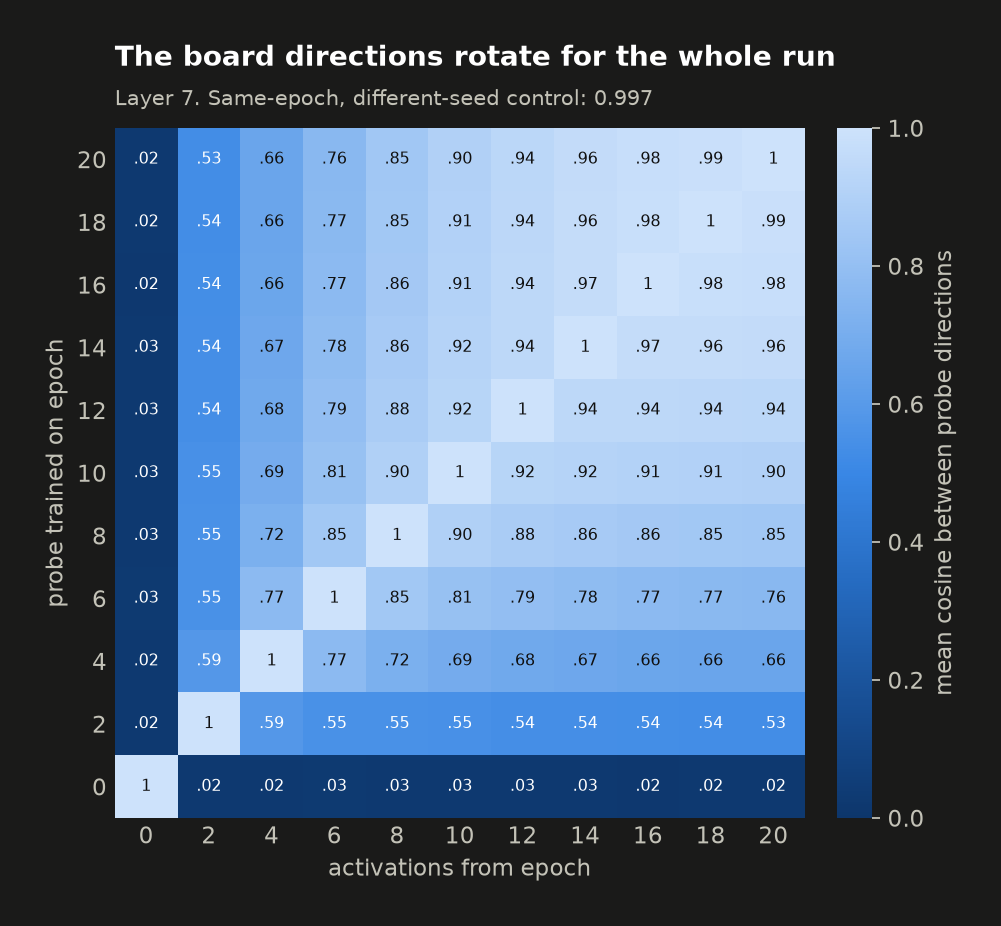
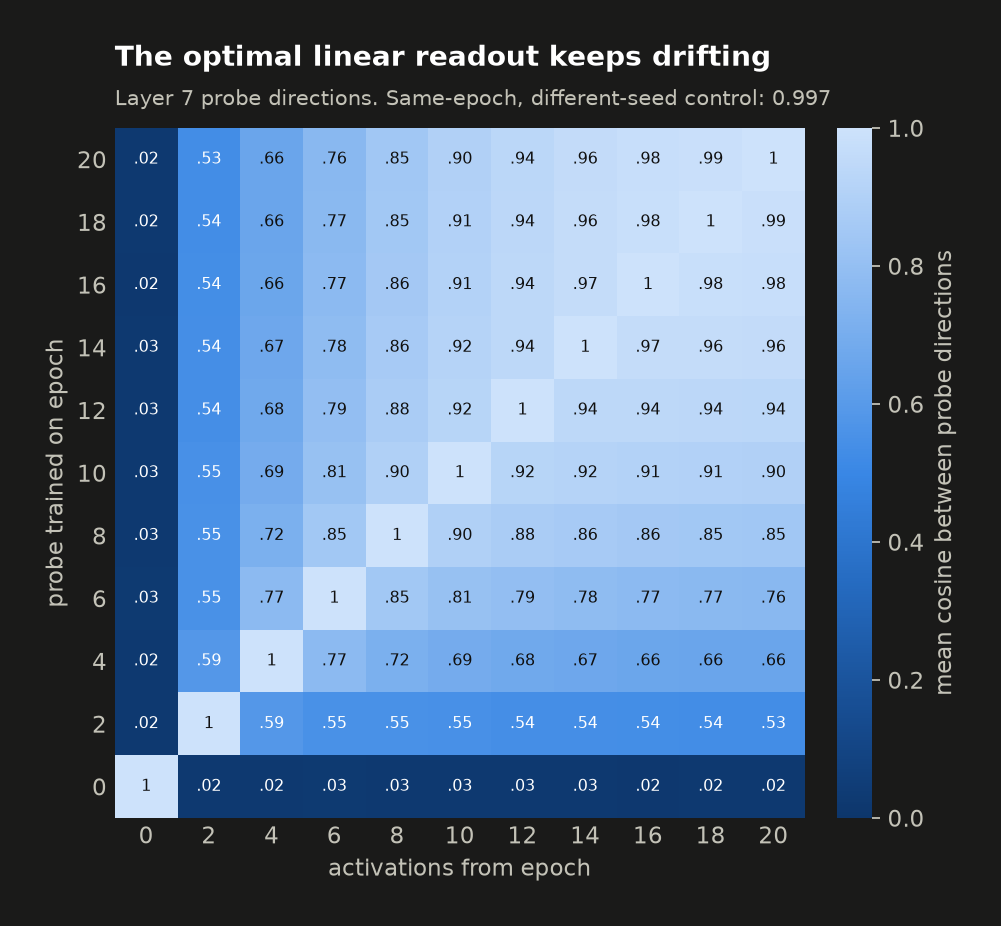
REPORT.md: retract the rotation claim; audit all remaining numbers
Section 8 claimed the board encoding rotates. It does not establish that. A
discriminative probe solves w ~ Sigma^-1 dmu, so its direction moves when the
activation covariance moves -- and mean |h| grows 12->131 (L4) and 16->226 (L7)
over exactly these epochs. The seed control does not separate the two, since
both probes see identical activations. Reworded to the claim the data supports
(the optimal linear readout drifts), with the generative dmu test that would
settle it written up as open thread #2. The epoch-0 row is dropped from the
argument: at init the probe fits noise, so its direction is arbitrary and its
~0.02 cosine is uninformative.

Audit of the other claims against source files.

Fixed:
- bilinear absolute @L7 is 16.97%, not 16.8% (that was the L5 value); the
  gap is 8.4x, not 8.3x
- sections 4 and 6 quoted GELU mine/yours from two different runs (1.12%
  full_h200 vs 0.99% full) without saying so; now labelled, with the spread
  reported as a run-to-run noise estimate
- L8 is a slight rise (1.17%), not flat

Verified sound:
- all legal-move errors, the 17.6% linear / 1.41% nonlinear replication, the
  2.011-nat entropy floor, 1.12% / 17.68% / 15.8x, the intervention numbers
  and the 51%, the head counts and peaks
- the dev-study epoch-20 checkpoint is the main model
- floors and intervention score the SAME 200 cases, so the ceiling comparison
  is not confounded by case selection

Added:
[…]

Changed region(s): [[0.1858, 0.0302, 0.8362, 0.121]]

diff --git a/src/report_figs.py b/src/report_figs.py
@@ -213,65 +213,9 @@ def fig_transfer(R, out, tag):
     cb = fig.colorbar(im, ax=ax, fraction=0.045, pad=0.04)
     cb.set_label("mean cosine between probe directions", color=T["text2"])
     cb.outline.set_visible(False)
-    title(ax, "The board directions rotate for the whole run",
-          f"Layer 7. Same-epoch, different-seed control: {ctl:.3f}")
+    title(ax, "The optimal linear readout keeps drifting",
+          f"Layer 7 probe directions. Same-epoch, different-seed control: {ctl:.3f}")
     save(fig, out, f"fig4_transfer_{tag}")
-
-
-# ---------------------------------------------------------------- fig 5
-def fig_transfer_err(R, out, tag):
-    """Transfer ERROR under the three output corrections. fig4 shows the probe
-    directions rotating; this shows what that costs at decode time, and splits
-    the cost into 'mere rescaling' (raw -> global -> pertile) vs the part that
-    survives recalibration and is therefore genuine drift."""
-    d = json.load(open(f"{R}/probe_transfer_full_h200.json"))
-    ep = d["epochs"]
-    corrs = [("raw", "raw logits"),
-             ("global", "global gain + class offsets (4 params)"),
-             ("pertile", "per-tile gain + offsets (256 params)")]
-    Ms = {c: np.array(d["by_layer"]["7"]["transfer_err"][c]) * 100 for c, _ in corrs}
-    own = Ms["pertile"][ep.index(20), ep.index(20)]
-
-    cmap = LinearSegmentedColormap.from_list("seq", T["seq"])
-    # shared log scale: errors span 1% -> 50%, linear would flatten the good end
-    vmin, vmax = 1.0, 50.0
-    norm = matplotlib.colors.LogNorm(vmin=vmin, vmax=vmax)
-
-    fig, axes = plt.subplots(1, 3, figsize=(15.4, 5.4))
-    for ax, (c, sub) in zip(axes, corrs):
-        M = np.clip(Ms[c], vmin, vmax)
-        im = ax.imshow(M, cmap=cmap, norm=norm, origin="lower")
-        for i in range(len(ep)):
-            for j in range(len(ep)):
-                v = Ms[c][i, j]
-                hi = norm(np.clip(v, vmin, vmax)) > 0.62
-                ax.text(j, i, f"{v:.0f}" if v >= 10 else f"{v:.1f}",
-                        ha="center", va="center", fontsize=7.0,
-                        color=T["cell_hi"] if hi else T["text"])
-        ax.set_xticks(range(len(ep)), ep)
-        ax.set_yticks(range(len(ep)), ep)
-        ax.set_xlabel("activations from epoch")
-        if ax is axes[0]:
-            ax.set_ylabel("probe trained on epoch")
-        for s in ax.spines.values():
-            s.set_visible(False)
-        ax.tick_params(length=0)
-        ax.set_title(c, loc="left", pad=22)
-        ax.annotate(sub, xy=(0, 1), xycoords="axes fraction", xytext=(0, 6),
-                    textcoords="offset points", va="bottom", ha="left",
-                    fontsize=8.5, color=T["text2"])
-
-    cb = fig.colorbar(im, ax=axes, fraction=0.022, pad=0.02)
-    cb.set_label("probe decode error, % (log scale)", color=T["text2"])
-    cb.outline.set_visible(False)
-    fig.suptitle("Most of the transfer collapse is rescaling — but not all of it",
-                 x=0.085, y=1.06, ha="left", fontsize=13.5, fontweight="semibold",
-                 color=T["text"])
-    fig.text(0.085, 1.005,
-             f"Layer 7. Diagonal = probe on its own checkpoint (epoch 20: {own:.2f}%). "
-             "Recalibration only rescales the output — it never re-aims the probe.",
-             ha="left", fontsize=9.5, color=T["text2"])
-    save(fig, out, f"fig5_transfererr_{tag}")
 
 
 if __name__ == "__main__":
@@ -293,6 +237,5 @@ if __name__ == "__main__":
         fig_intervention(a.results, a.out, tag)
         fig_dev(a.results, a.out, tag)
         fig_transfer(a.results, a.out, tag)
-        fig_transfer_err(a.results, a.out, tag)
         print(f"[figs] wrote {tag} theme")
     print("[figs] done ->", a.out)

diff --git a/REPORT.md b/REPORT.md
@@ -13,7 +13,7 @@ player-relative (mine/yours) frame** and **causally used** — and we calibrate
 just *how* causally used, against oracle bounds computed from the game engine.
 Training-time tracing then shows the board appears very early (~epoch 2–4 of 20)
 and its *causal* usefulness saturates well before its *decodability* does, while
-the probe directions themselves keep slowly rotating for the entire run.
+the optimal linear readout of it keeps drifting for the entire run.
 Swapping the MLPs for bilinear MLPs solves the task equally well but leaves the
 board measurably harder to read.
 
@@ -26,7 +26,7 @@ board measurably harder to read.
 | 1 | Replication holds at full scale | legal-move error **0.046%** (authors' ckpt 0.017%) | `gpt_full_h200_eval.json` |
 | 2 | Board rep is **linear** in the mine/yours frame | **1.12%** err @ L7 vs **17.7%** absolute-color — a 15.8× gap | `nanda_probe_full_h200.json` |
 | 3 | The board is **causally used**, and we now know how much | 1.36 → **0.67** illegal moves; calibrated floor 0.0 / ceiling 1.39 ⇒ intervention closes **~51%** of the gap | `intervention_nanda_full_h200.json`, `floors_full_h200.json` |
-| 4 | The representation **drifts throughout training** even after it stops improving | probe cosine ep2↔ep20 = **0.53**, but cross-seed control at fixed epoch = **0.999** | `probe_transfer_full_h200.json` |
+| 4 | The **linear readout drifts** through training even after decodability plateaus | probe-direction cosine ep2↔ep20 = **0.53** (same-epoch, different-seed: **0.999**) | `probe_transfer_full_h200.json` |
 
 ---
 
@@ -67,8 +67,8 @@ board measurably harder to read.
 - **1.12% error @ L7** vs **17.7%** for the absolute-color linear probe.
 - Interpretation: the earlier "nonlinearity" was a **coordinate-frame artifact**.
   The model stores a player-relative board, and it stores it linearly.
-- Layer profile: error falls monotonically L1→L7 (9.5% → 1.12%), flat at L8 —
-  the board is *built* through the mid stack and *consumed* at the top.
+- Layer profile: error falls monotonically L1→L7 (9.5% → 1.12%) and ticks back
+  up slightly at L8 (1.17%) — the board is *built* through the mid stack.
 
 <picture>
   <source media="(prefers-color-scheme: dark)" srcset="results/figs/fig1_linearity_dark.png">
@@ -90,6 +90,12 @@ board measurably harder to read.
   (1.36 vs 1.388 — as it must), and the intervention moves it **~51% of the way
   to a perfect edit-follower**. The edit is genuinely causal, and it's
   genuinely partial. This replaces a previously uncalibrated metric.
+- Both the floor/ceiling and the intervention are computed over the **same 200
+  benchmark cases** (`bench[:n_cases]` from one config key), so the comparison
+  is not confounded by case selection.
+- The floor is a *perfect* edit-follower, not a perfect version of this model.
+  This model's own intrinsic error contributes ~0.005 expected illegal moves at
+  N≈10, so the distinction moves the 51% by well under a percentage point.
 
 <picture>
   <source media="(prefers-color-scheme: dark)" srcset="results/figs/fig2_intervention_dark.png">
@@ -102,14 +108,19 @@ board measurably harder to read.
   the architecture swap costs nothing on the objective.
 - But its board is consistently **~2× harder to read**:
 
-  | Probe | GELU | Bilinear |
+  | Probe | GELU (`full`) | Bilinear (`full`) |
   |---|---|---|
   | nonlinear @ L7 | 1.41% | 2.60% |
   | linear mine/yours @ L7 | 0.99% | 2.03% |
 
+  **Run bookkeeping**: this table compares the two `full`-profile checkpoints,
+  which is the matched pair — the bilinear model was trained under that recipe.
+  §4's headline 1.12% comes from the separate `full_h200` GELU run. The two GELU
+  numbers (0.99% vs 1.12%) are the same architecture trained twice, and their
+  spread is a useful reminder of the run-to-run noise floor on these probes.
 - The mine/yours linearity result of §4 reproduces in bilinear too (2.03%
-  mine/yours vs 16.8% absolute = 8.3× gap), so this is a difference in how
-  *sharply* the board is written, not in what kind of representation it is.
+  mine/yours vs **16.97%** absolute @ L7 = **8.4×** gap), so this is a difference
+  in how *sharply* the board is written, not in what kind of representation it is.
 - **The board code is about half as redundant under bilinear.** Decomposing the
   linear mine/yours readout over all 64 attention heads, the number that
   correlate with it at **> 0.3** is:
@@ -145,6 +156,9 @@ Probing + intervening at every 2nd epoch of a 20-epoch full run:
   is fully mature by **epoch 4** and never improves again, while probe error
   keeps falling 2.65% → 1.12% over the remaining 16 epochs. The last 60% of
   probe improvement buys **zero** additional causal control.
+- Noise check: with n=200 and std ≈0.53, the SEM on each intervention number is
+  ≈0.037. The epoch-4→20 intervened values span 0.605–0.685, i.e. ~2 SEM with no
+  trend — flat within noise, rather than measurably improving.
 - Reading: late training refines a representation the model was *already* using
   as much as it ever will — a decodability/causality dissociation.
 - Epoch-0 numbers double as the random-init control (22% probe error is the
@@ -155,63 +169,54 @@ Probing + intervening at every 2nd epoch of a 20-epoch full run:
   <img alt="Two stacked panels over training epochs 0 to 20, log scale. Top: best-layer probe error falls from 22.4% at random init to 2.65% by epoch 4 and continues down to 1.12% by epoch 20. Bottom: the un-intervened and intervened illegal-move counts separate by epoch 2 and are flat from epoch 4 onward at about 1.37 versus 0.68." src="results/figs/fig3_devtrace_light.png" width="720">
 </picture>
 
-## 8. Result 6 — The representation keeps rotating *(newest result)*
+## 8. Result 6 — The optimal linear readout keeps drifting *(newest result)*
 
 Probe-transfer study: train a probe on epoch *i* activations, apply it to
-epoch *j*; also compare probe directions directly.
+epoch *j*; also compare probe weight directions directly.
 
-- **Cross-epoch cosine (L7)**: adjacent late epochs ≈ 0.99, but
-  **ep2 ↔ ep20 = 0.53**, and **ep0 ↔ anything ≈ 0.02**. A smooth monotone decay
-  away from the diagonal, at both L4 and L7.
+- **Cross-epoch cosine (L7)**, between trained probe directions: adjacent late
+  epochs ≈ 0.99, falling smoothly and monotonically to **ep2 ↔ ep20 = 0.53**.
+  Same pattern at L4. (The epoch-0 row sits at ≈0.02 against everything, but
+  carries no weight: at random init there is no board, the probe fits noise at
+  the 22% class prior, and its direction is arbitrary. It is excluded from the
+  argument below.)
 - **Transfer error (L7, per-tile recalibrated)**: on-diagonal 1.09% @ ep20, but
-  the epoch-2 probe applied at epoch 20 gives **8.3%** — and on raw (un-recalibrated)
-  logits, cross-epoch transfer collapses to ~50%+ error.
-- **Critical control**: two probes trained at the *same* epoch with different
-  seeds agree at **cosine 0.997–0.999**, subspace 0.996–0.999, identical error.
-  So the drift is a property of the **model**, not probe-training noise.
-- Interpretation: decodability plateaus by ~epoch 10, but the **basis in which
-  the board is written keeps slowly rotating for the whole run**. Probes are
-  checkpoint-specific; "the board direction" is not a fixed object across
-  training.
+  the epoch-2 probe applied at epoch 20 gives **8.3%**. On raw (un-recalibrated)
+  logits cross-epoch transfer collapses to ~50%+ — so a large part of the naive
+  failure is scale/offset, consistent with the 7–14× growth in activation norm,
+  and only the recalibrated gap is evidence of anything directional.
+- **Seed control**: two probes trained at the *same* epoch with different seeds
+  agree at **cosine 0.997–0.999**, subspace 0.996–0.999, identical error. The
+  drift is therefore not probe-fitting noise — the optimization is reproducible.
+
+**What this does and does not establish.** It establishes that the *optimal
+linear readout* of the board moves through training, well after decodability has
+plateaued: a probe is a statement about one checkpoint and does not transfer.
+
+It does **not** establish that the model's board encoding rotates, and an earlier
+version of this report wrongly claimed it did. A discriminative probe solves
+roughly `w ∝ Σ⁻¹Δμ`, so its direction depends both on where the board is written
+(`Δμ`) and on the activation covariance `Σ` — which changes enormously over these
+same epochs (mean ‖h‖ grows 12.1→130.7 at L4, 16.3→225.8 at L7, monotonically).
+A fixed encoding under a drifting covariance produces exactly this signature. The
+seed control does not separate the two, because both probes see identical
+activations, so `Δμ` and `Σ` are held fixed together.
+
+**The test that would separate them** (not yet run): compare *generative*
+directions `Δμ = mean(h | mine) − mean(h | yours)` per tile, which involve no
+`Σ⁻¹`, on unit-normalized activations. If `Δμ` cosines stay high while probe
+cosines fall, the drift is a readout/whitening effect and the encoding is stable;
+if they fall together, the encoding itself is moving.
+
 - **Geometry side-note**: the 64 tile directions are **not** low-dimensional —
-  top-3 PCs explain only **9.2% (L4) / 10.0% (L7)**. No compact 3D board
-  manifold; the board is a genuinely high-rank code.
+  top-3 PCs explain only **9.2% (L4) / 10.0% (L7)**, against ~4.7% for 64
+  perfectly isotropic directions. No compact 3D board manifold. (These are
+  probe directions too, so the `Σ` caveat applies, but the conclusion is robust
+  to it: a covariance artifact does not manufacture rank this high.)
 
 <picture>
   <source media="(prefers-color-scheme: dark)" srcset="results/figs/fig4_transfer_dark.png">
   <img alt="An 11 by 11 heatmap of cosine similarity between layer-7 probe directions trained at different epochs. The diagonal is 1 by construction; values decay smoothly away from it, from 0.99 between adjacent late epochs down to 0.53 between epoch 2 and epoch 20, and about 0.02 for anything against epoch 0." src="results/figs/fig4_transfer_light.png" width="660">
-</picture>
-
-### 8.1 How much of the collapse is real? *(raw / global / pertile)*
-
-Transfer error alone can't separate "the probe is aimed wrong" from "the probe
-is aimed fine but its outputs come out at the wrong scale" — the residual stream
-grows during training. So each stale probe is scored three ways, each of which
-only ever **rescales** its output and never re-aims it: `raw` (untouched),
-`global` (one gain + three class offsets, 4 params), `pertile` (per-tile gain +
-offsets, 256 params). Whatever error survives `pertile` is genuine drift.
-
-| L7, probe → activations | raw | global | pertile | own-epoch |
-|---|---|---|---|---|
-| ep2 → ep20 | 15.2% | 14.8% | **8.3%** | 1.10% |
-| ep20 → ep2 | 26.3% | 15.4% | **10.6%** | 5.12% |
-| mean off-diag (ep ≥ 2) | 6.9% | 5.2% | **3.5%** | — |
-
-- **Most of the apparent collapse is rescaling** — ep20→ep2 halves from 26.3% to
-  10.6% under recalibration. Reports of "~50% error on raw logits" are mostly a
-  scale artefact and shouldn't be quoted as drift.
-- **What survives is still large**: 8.3% vs a native 1.10% is ~8× the own-epoch
-  error, and ~300× the same-epoch seed-control spread. The rotation is real.
-- **The decay is asymmetric.** A late probe read backwards is worse than an early
-  probe read forwards (26.3% vs 15.2% raw) — the cosine matrix is symmetric by
-  construction and hides this. Late probes are *more* specialised to their own
-  checkpoint than early ones are.
-- **Epoch 0 is the control** and behaves as it must: ~42% under every correction,
-  i.e. recalibration cannot rescue a probe that was never aimed at anything.
-
-<picture>
-  <source media="(prefers-color-scheme: dark)" srcset="results/figs/fig5_transfererr_dark.png">
-  <img alt="Three 11 by 11 heatmaps of layer-7 probe decode error on a shared log color scale, for the raw, global and per-tile corrections. In all three the diagonal is lowest, around 1.1 percent at late epochs, and error grows away from it. Moving from raw to per-tile shrinks the off-diagonal values substantially, for example epoch 20 applied to epoch 2 falls from 26 percent to 11 percent, but the off-diagonal never approaches the diagonal. The epoch 0 row and column stay near 42 to 59 percent throughout." src="results/figs/fig5_transfererr_light.png" width="940">
 </picture>
 
 ---
@@ -225,7 +230,8 @@ offsets, 256 params). Whatever error survives `pertile` is genuine drift.
 3. **Emergence is early, and the refinement afterwards is causally inert.**
    Probe error and causal control come apart after epoch 4.
 4. **A probe is a statement about one checkpoint.** The board stays decodable
-   while the directions encoding it keep rotating.
+   while the optimal linear readout of it keeps moving — whether the encoding
+   moves with it is still open (§8).
 
 ## 10. Limitations / caveats
 
@@ -241,16 +247,25 @@ offsets, 256 params). Whatever error survives `pertile` is genuine drift.
 - Intervention n = 200 cases; transfer/PCA studies use 2,000 games
   (117,961 positions), single seed for the model itself.
 - Everything is one model size (25.3M) on one synthetic distribution.
+- Every "direction" in this report is a **discriminative probe weight**, not a
+  measured encoding direction. Where a claim depends on the distinction it is
+  flagged (§8); elsewhere the claims are about decodability, which is what a
+  probe legitimately measures.
+- §6's GELU/bilinear comparison is one training run per architecture. The two
+  GELU runs available (0.99% vs 1.12% mine/yours @ L7) bound the run-to-run
+  noise at ~0.13pp, well under the ~1pp GELU/bilinear gap, but a single seed per
+  arm still cannot separate architecture from initialization.
 
 ## 11. Open threads (ranked)
 
 1. **Why does causal efficacy cap at ~51%** of the calibrated floor? Is the
    remaining half a probe-quality limit, or does the model also read the board
    from somewhere the edit doesn't reach?
-2. **Multi-seed models** to test whether the rotation in §8 converges to a
+2. **Settle §8**: generative `Δμ` directions on normalized activations, to say
+   whether the encoding moves or only the readout does. Cheap — reuses the
+   cached activations, no probe training.
+3. **Multi-seed models** to test whether the drift converges to a
    seed-independent endpoint, or is genuinely seed-specific.
-3. **Does the rotation have structure?** It is smooth and monotone — worth
-   checking whether it is drift along a low-dimensional manifold or diffuse.
 4. **What makes the bilinear board less sharp** at equal task error (§6).
 5. **Championship-game track** to make the numbers directly comparable to the
    paper's.
